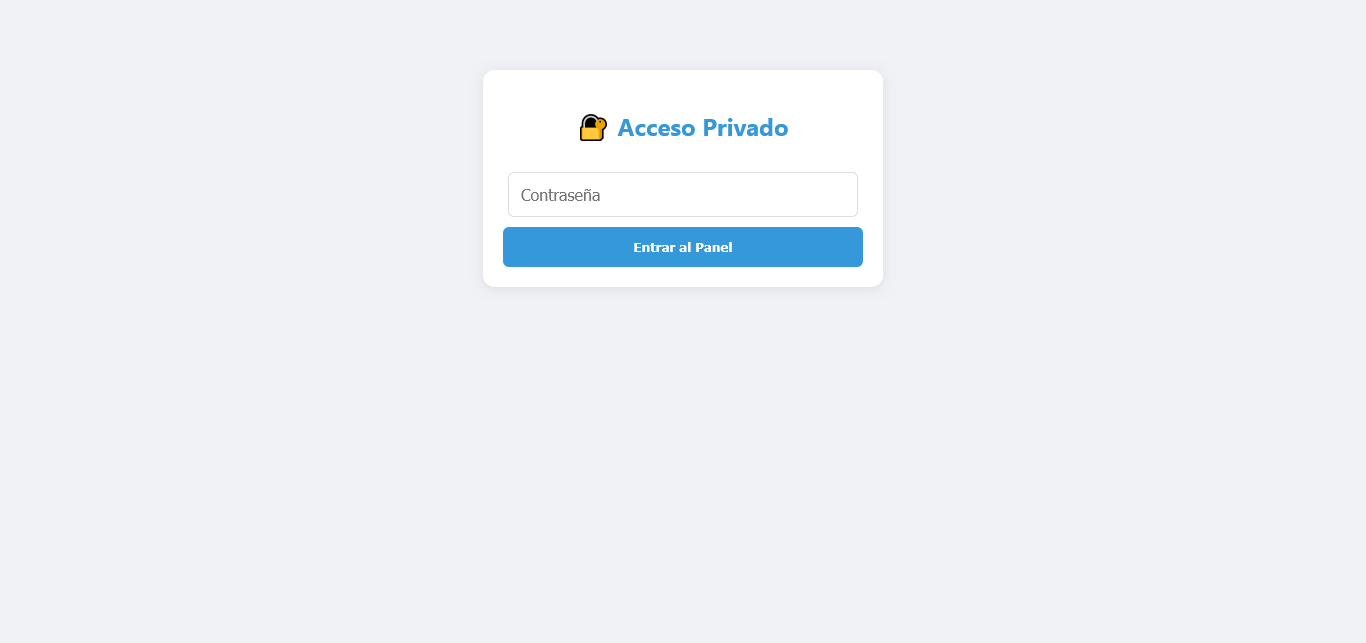
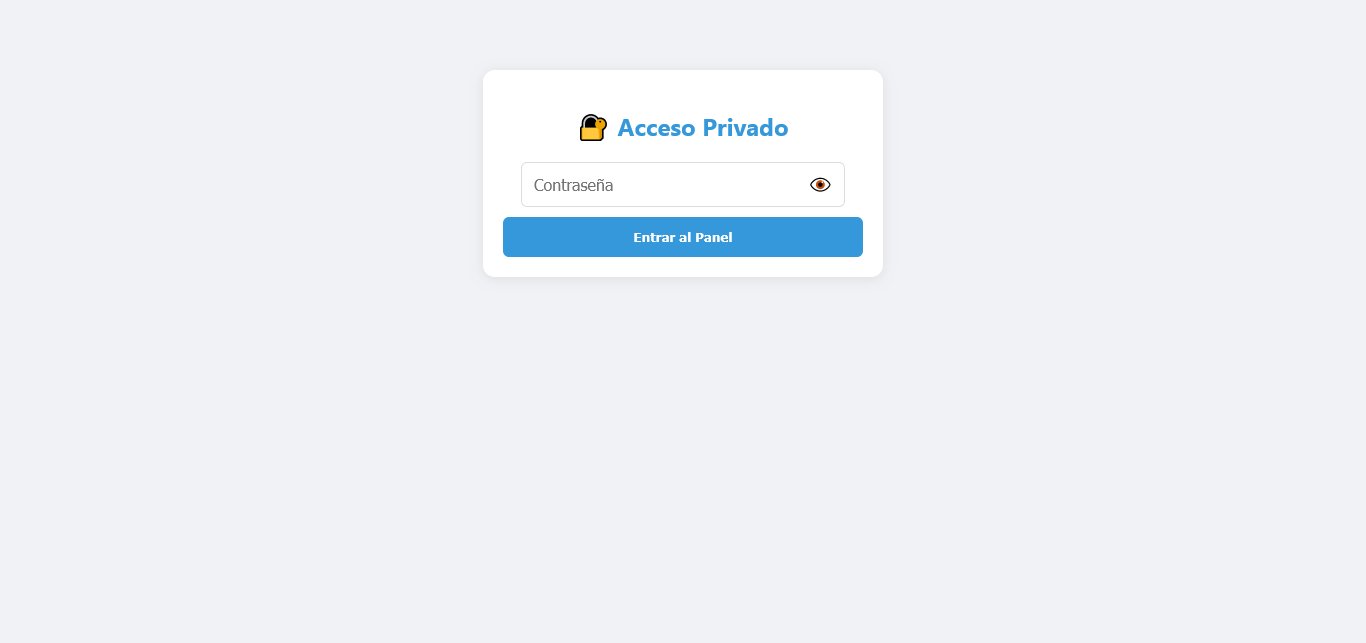
New screenshots
Corrección de screenshot tras los últimos cambios de UI

Changed region(s): [[0.369, 0.2488, 0.6457, 0.4355]]

diff --git a/README.md b/README.md
@@ -3,6 +3,8 @@
 Un panel de monitorización ligero, seguro y visual para conexiones IPTV (basadas en la API de Xtream Codes). Desarrollado en PHP y JavaScript (Chart.js), este proyecto permite registrar, archivar y analizar el uso de tus conexiones a lo largo del tiempo sin necesidad de bases de datos pesadas.
 
 ![Captura del login con contraseña](screenshot01.png)
+![Captura del login con contraseña bullet points](screenshotpass01.png)
+![Captura del login con contraseña sin bullet points](screenshotpass02.png)
 ![Captura del panel](screenshot02.png)
 
 ## ✨ Características Principales
